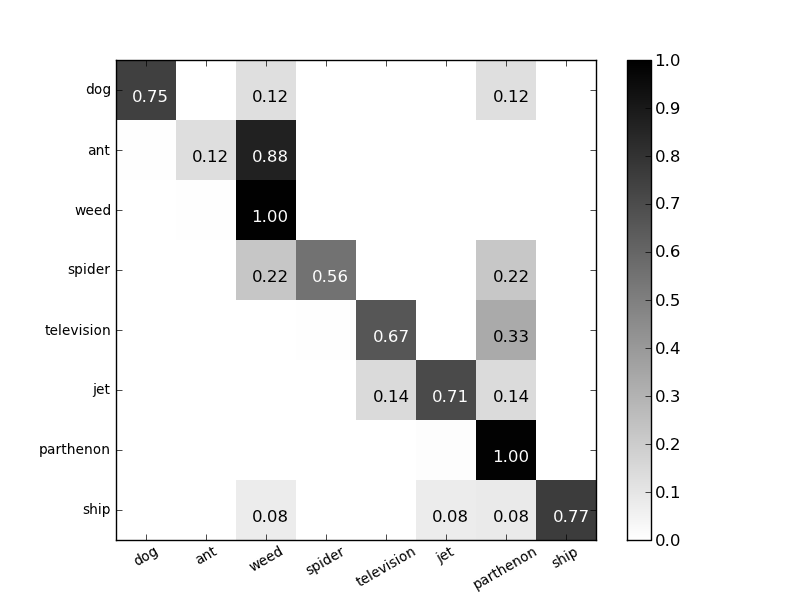
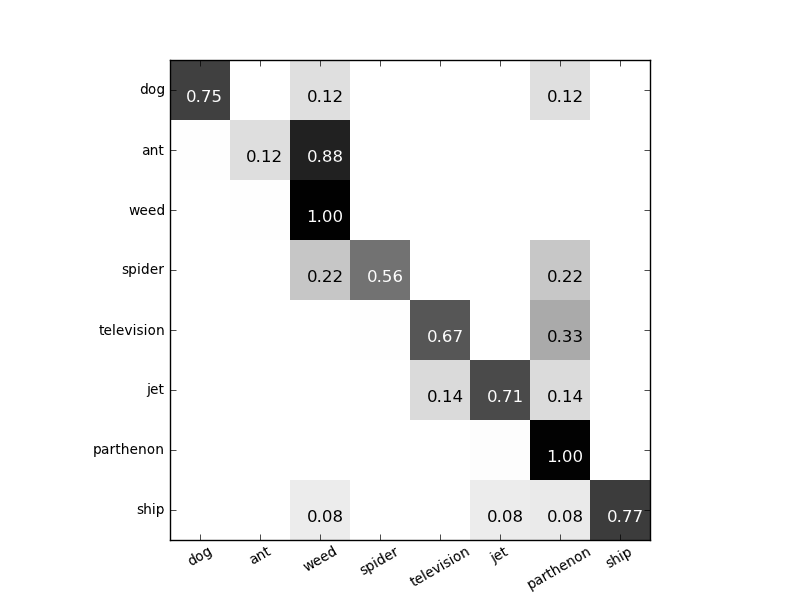
re-worked the cumulative histogram figures to be better and also use latex on the axes (for the \leq sign); removed colorbar from confusion matrix because we're plotting the values anyway

diff --git a/plotting/main.py b/plotting/main.py
@@ -28,9 +28,8 @@ class EvalSet:
     evals,feat_names = self.process_features(features)
     clf()
     linestyles = ['-', '--', ':']
-    for i,f in enumerate(features):
-      e = self.evals[f]
-      label = "%s: %.3f"%(e.feature,e.ap)
+    for i,e in enumerate(evals):
+      label = "%s: %.3f"%(e.nice_name,e.ap)
       lstyle = linestyles[mod(i,len(linestyles))]
       plot(e.recall,e.precision,lstyle,label=label)
     legend(loc='lower left')
@@ -52,27 +51,31 @@ class EvalSet:
   def plot_rank_histogram(self, features=None):
     evals,feat_names = self.process_features(features)
     colors = ['blue','green','red','cyan']
+    rc('text', usetex=True)
     clf()
-    width = .9/len(features)
-    ind = arange(5)
-    for i,feature in enumerate(features):
-      e = self.evals[feature]
+    width = .9/len(evals)
+    ind = arange(4)
+    for i,e in enumerate(evals):
       counts = e.rank_histogram_data() 
-      counts_r = 1.*counts/sum(counts)
+      counts = counts[:4] # not using the catchall column
+      counts_r = 1.*counts/(e.num_trials)
       color = colors[mod(i, len(colors))]
       # only print the value if doing one feature
-      if len(features)==1:
+      label = '%s: %.3f'%(e.nice_name, e.auh)
+      if len(evals)==1:
+        label = '%.3f'%e.auh
         color = 'black'
         for j,count in enumerate(cumsum(counts_r)):
-          text(j+width/2.-.1, count*1.-.04, "%.3f"%count, color='white')
-      bar(ind+i*width,cumsum(counts_r),color=color,width=width,label=feature)
-    ranks = ['1','2','3','4','5+']
-    xticks(ind+width/2., ranks) 
-    xlabel('Number of top results within which the correct model is fetched')
-    title('Area under the rank histogram is %.3f.'%e.auh)
-    if len(features)>1:
-      legend(loc='upper left')
+          text(j+width/2.-.1, count*1.-.04, "%.2f"%count, color='white')
+      bar(ind+i*width,cumsum(counts_r),color=color,width=width,label=label)
+    ranks = [r'$\leq %s$'%x for x in [1,2,3,4]]
+    xticks(ind+0.5, ranks) 
+    yticks(linspace(0,1,5))
+    xlabel('Correct result fetched within K hits ')
+    ylabel('Proportion of trials')
+    legend(loc='upper left')
     self.savefig_wrap(features,'rankhist')
+    rc('text', usetex=False)
 
   def plot_confusion_matrix(self,feature):
     """Takes an evaluation and outputs its confusion matrix to file."""
@@ -101,7 +104,7 @@ class EvalSet:
             text(j-.2, i+.2, "%.2f"%c, color='black', fontsize=12)
           else:
             text(j-.2, i+.2, "%.2f"%c, color='white', fontsize=12)
-    cb = fig.colorbar(res)
+    #cb = fig.colorbar(res)
     xticks(arange(0, self.num_models), self.model_names, rotation=30, size='small')
     yticks(arange(0, self.num_models), self.model_names, size='small')
 
@@ -208,14 +211,14 @@ def main():
   for feature in eval_set.features:
     eval_set.evals[feature] = Evaluation(eval_set, feature)
     eval_set.print_info(feature)
-    #eval_set.plot_confusion_matrix(feature)
-    #eval_set.plot_rank_histogram([feature])
-    #eval_set.plot_pr([feature])
+    eval_set.plot_confusion_matrix(feature)
+    eval_set.plot_rank_histogram([feature])
+    eval_set.plot_pr([feature])
 
   # Print feature comparison table and output PR plot
   eval_set.print_comparison_table()
-  #eval_set.plot_rank_histogram()
-  #eval_set.plot_pr()
+  eval_set.plot_rank_histogram()
+  eval_set.plot_pr()
 
   # Generate consolidation latex figure
   eval_set.generate_subfig()
